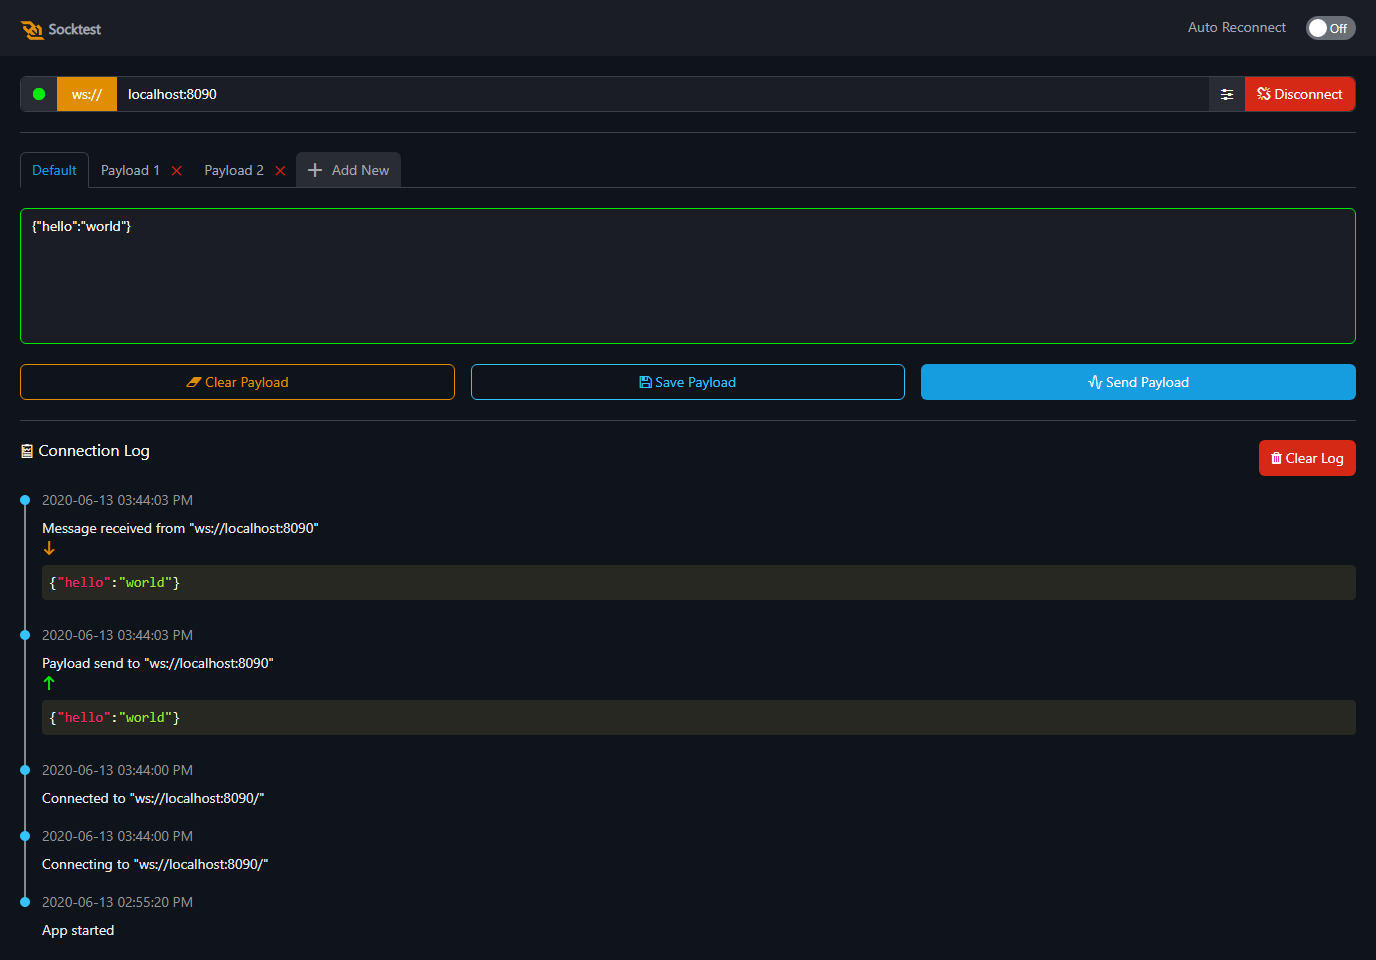
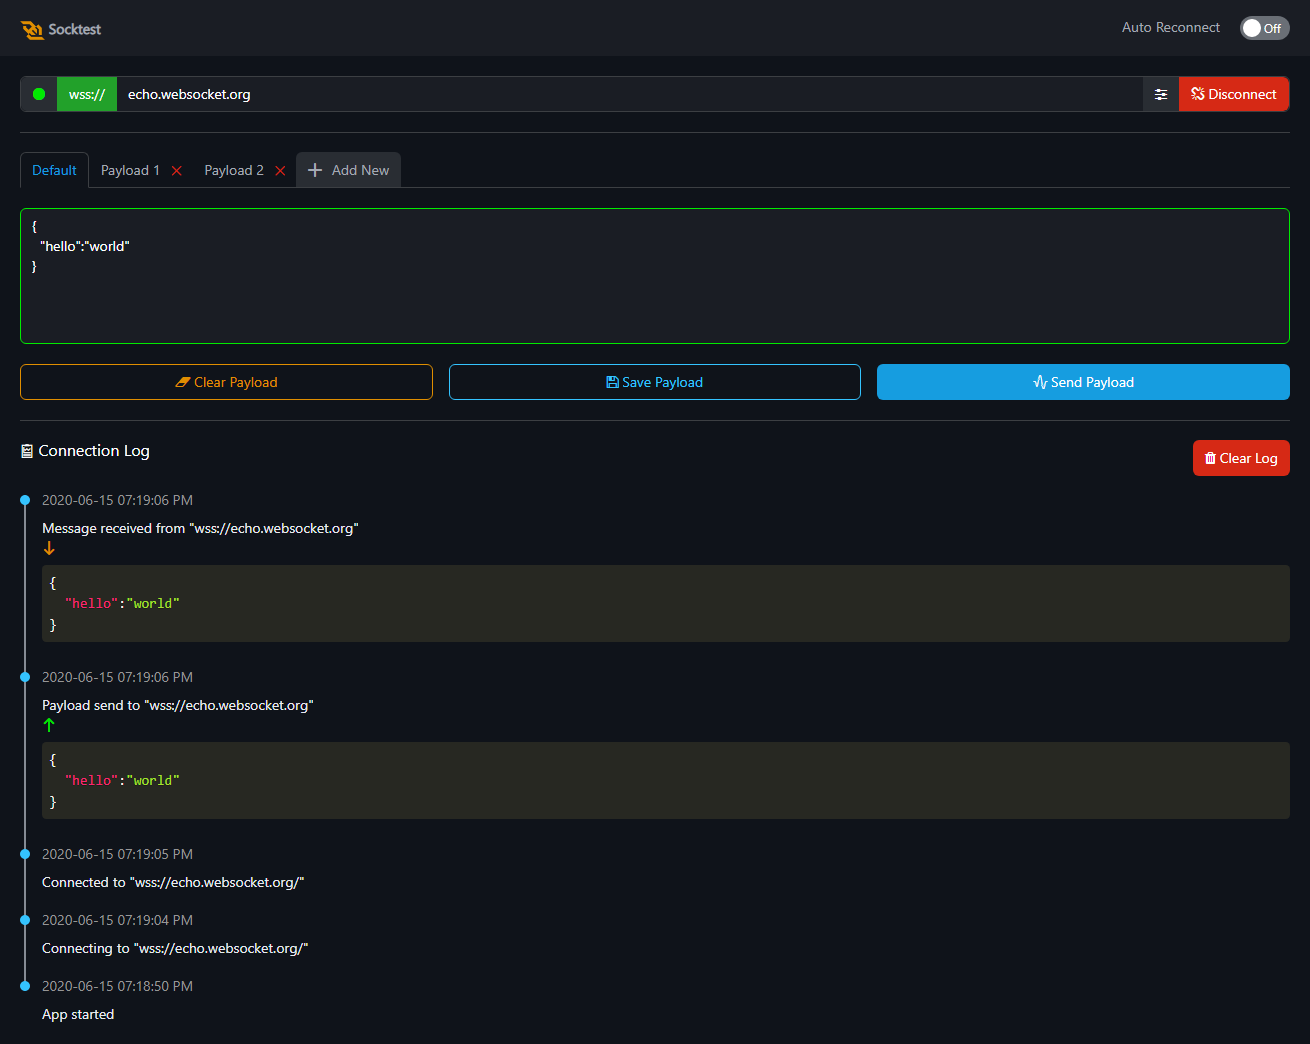
PWA splash background update

diff --git a/src/components/WsClient.jsx b/src/components/WsClient.jsx
@@ -289,7 +289,6 @@ const WsClient = (props) => {
           componentClass="textarea"
           rows={6}
           placeholder="Payload to send"
-          onPressEnter={() => sendMessage(payload.current.value)}
         />
         <Row gutter={16} className="show-grid">
           <Col xs={24} sm={24} md={8} lg={8}>

diff --git a/README.md b/README.md
@@ -13,11 +13,11 @@
 - Auto reconnect option.
 - Clear log view.
 - Responsive UI.
+- JSON highlighter.
 - Progressive Web App (Works both online and offline).
 
 ## Shortcuts
 
-- Payload send on `enter` press.
 - Protocol set on `enter` press.
 
 ## Usage
